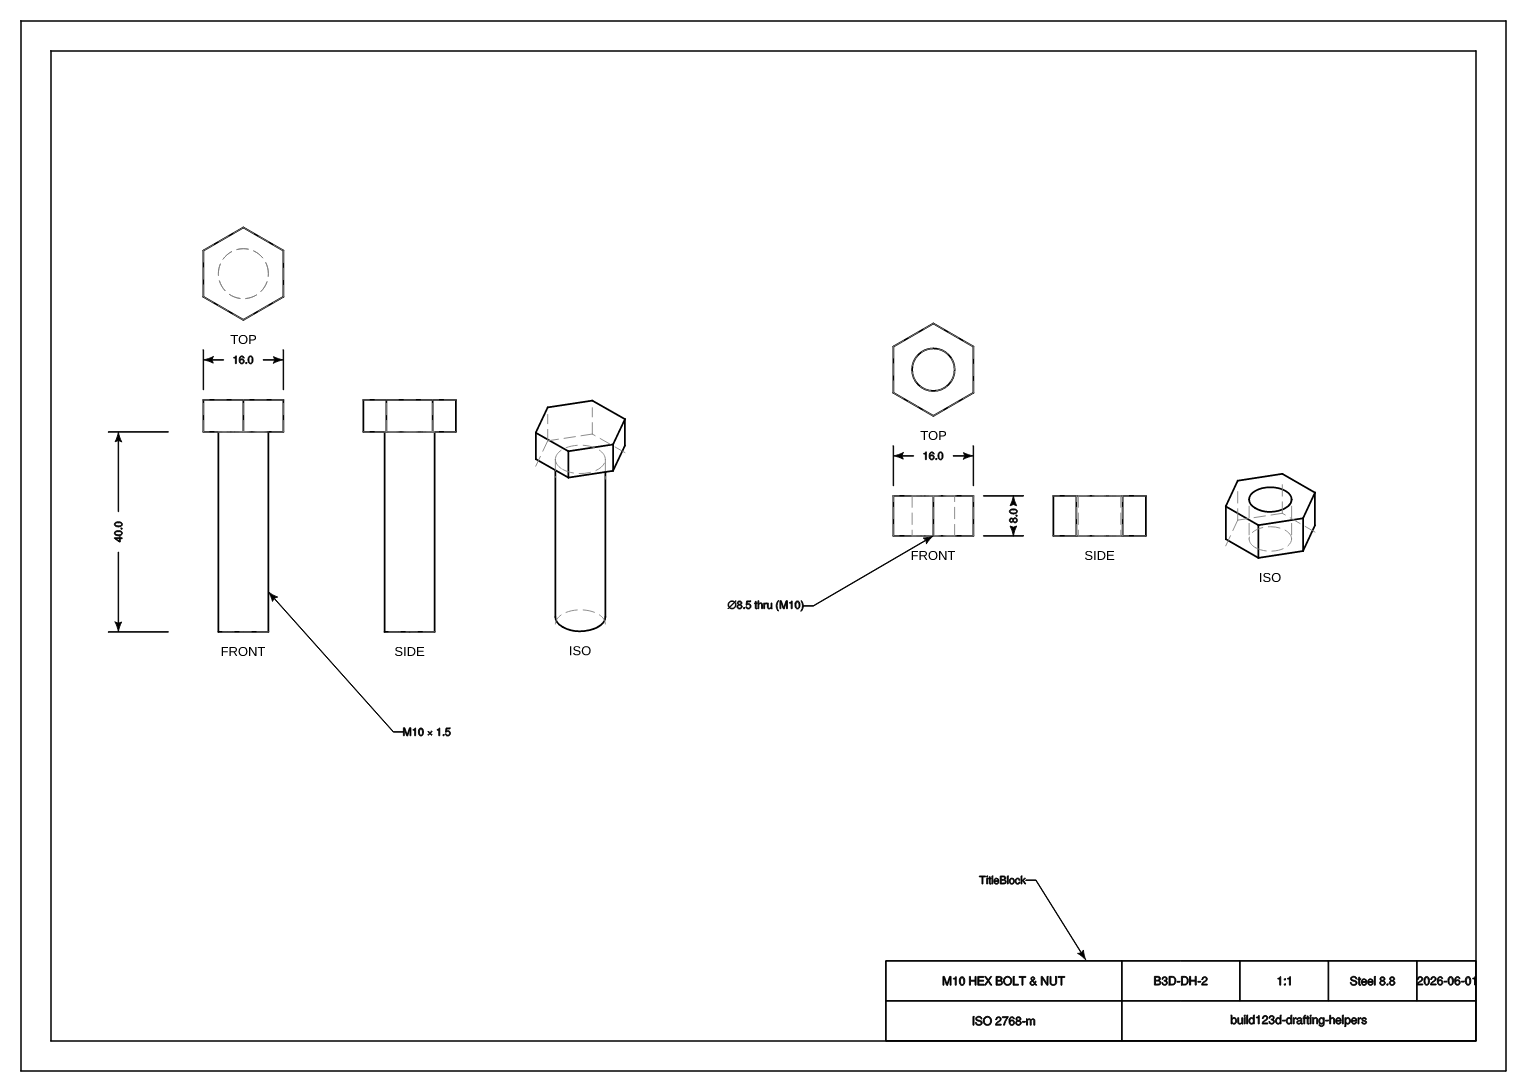
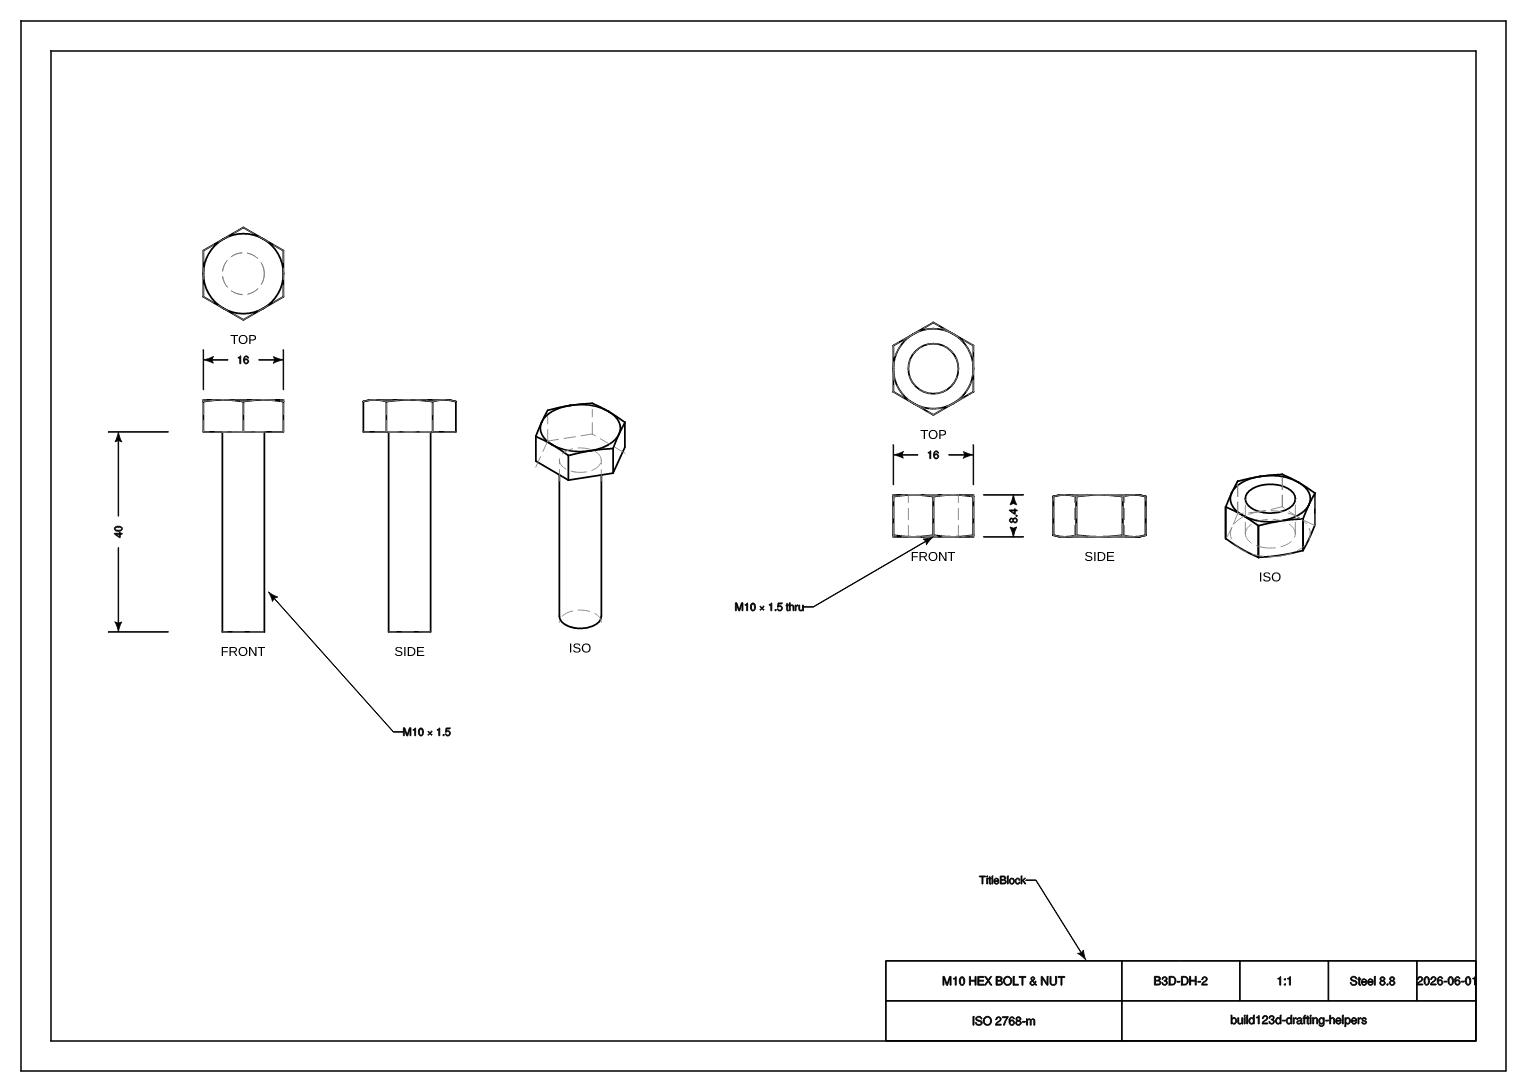
examples: part_drawing draws a real bd_warehouse fastener, fully parametric
Replaces the from-scratch RegularPolygon hex bolt/nut in part_drawing.py with
a bd_warehouse HexHeadScrew + HexNut. Every dimension and callout is now pulled
from the bd_warehouse object (.length, .head_height, .head_diameter ->
across-flats, .thread_diameter/.thread_pitch, .nut_thickness, .nut_diameter),
so changing BOLT_SIZE / BOLT_LENGTH reflows the whole drawing — views, dims,
thread designation and title block — and the self-lint stays clean because the
label values come from the same source as the geometry.

- Parts rotated 30 deg about the axis so a hex flat faces the front camera (the
  front view then shows the across-flats / spanner dimension).
- bd_warehouse added as an example-only dev dependency; the library's runtime
  deps are unchanged (build123d only).
- README worked-drawing section + docs/part_drawing.png updated.

diff --git a/examples/part_drawing.py b/examples/part_drawing.py
@@ -1,36 +1,64 @@
-"""Part drawing — the end-to-end workflow on a real part (M10 hex bolt + nut).
+"""Part drawing — the end-to-end workflow on a real part (hex bolt + nut).
 
 Unlike the specimen sheet (a catalogue of symbols), this shows how you actually
-*make a drawing* with the helpers:
+*make a drawing* with the helpers, on a real library part:
 
-    build the 3D part  ->  project_to_viewport() views (front / top / side / iso)
+    bd_warehouse fastener  ->  project_to_viewport() views (front/top/side/iso)
     ->  dimension with the helpers  ->  lint with find_interferences()  ->  export
 
-It's an A4 frame with a TitleBlock; each part gets front/top/side views
-plus an isometric, dimensioned with Dimension()/Leader()
-(drafts from draft_preset()). The layout is verified collision-free by lint()
-before export.
+The part is a ``bd_warehouse`` ``HexHeadScrew`` + ``HexNut``, and **every
+dimension and callout is pulled from the bd_warehouse object** — change
+``BOLT_SIZE`` / ``BOLT_LENGTH`` below and the views, dimensions, thread
+designation and title block all reflow automatically. It's an A4 frame with a
+TitleBlock; each part gets front/top/side views plus an isometric, dimensioned
+with Dimension()/Leader() (drafts from draft_preset()). The layout is verified
+collision-free by lint() before export.
 
     python examples/part_drawing.py            # writes part_drawing.svg
+
+Requires the dev/example dependency ``bd_warehouse`` (``uv sync --group dev``).
 """
 from __future__ import annotations
 
+import math
 from types import SimpleNamespace
 
+from bd_warehouse.fastener import HexHeadScrew, HexNut
 from build123d import (
-    Align, BuildPart, BuildSketch, Circle, Color, Compound, Edge, ExportSVG,
-    LineType, Location, Mode, Plane, RegularPolygon, Text, extrude,
+    Align, Axis, Color, Compound, Edge, ExportSVG, LineType, Location, Text,
 )
 from build123d_drafting import (
     Dimension, draft_preset, find_interferences, Leader, TitleBlock,
 )
 
+# --- the part: change these two lines and the whole drawing reflows ----------
+BOLT_SIZE = "M10-1.5"      # any bd_warehouse hex size, e.g. "M8-1.25", "M12-1.75"
+BOLT_LENGTH = 40.0
+
+_bolt = HexHeadScrew(size=BOLT_SIZE, length=BOLT_LENGTH, simple=True)
+_nut = HexNut(size=BOLT_SIZE, simple=True)
+
+# Every value below is read from the bd_warehouse parts — no magic numbers.
+_AF = math.sqrt(3) / 2.0                       # across-corners -> across-flats
+BOLT_L = _bolt.length                          # threaded shaft length
+HEAD_H = _bolt.head_height
+THREAD_D = _bolt.thread_diameter
+PITCH = _bolt.thread_pitch
+HEAD_AF = _bolt.head_diameter * _AF            # spanner size (across flats)
+NUT_T = _nut.nut_thickness
+NUT_AF = _nut.nut_diameter * _AF
+THREAD = f"M{THREAD_D:g} × {PITCH:g}"          # e.g. "M10 × 1.5"
+TITLE = f"{BOLT_SIZE.split('-')[0]} HEX BOLT & NUT"
+
+# Rotate 30° about the axis so a hex flat faces the front camera — the front
+# view then shows the across-flats width, i.e. the dimensioned A/F.
+bolt = _bolt.rotate(Axis.Z, 30)
+nut = _nut.rotate(Axis.Z, 30)
+
 DRAFT = draft_preset(font_size=2.2, decimal_precision=1)
-PW, PH, MARGIN = 297.0, 210.0, 6.0          # A4 landscape
-AF, HEAD_H, DIA, LEN = 16.0, 6.4, 10.0, 40.0
-NUT_AF, NUT_T, BORE = 16.0, 8.0, 8.5
+PW, PH, MARGIN = 297.0, 210.0, 6.0             # A4 landscape
 SANS = "Liberation Sans"
-D = 800.0                                    # camera distance
+D = 800.0                                       # camera distance
 
 border, part_v, hidden_v, dims_l, text_l = [], [], [], [], []
 lint_items: list = []
@@ -42,29 +70,6 @@ def _label_box(t, name="text"):
     bb = t.bounding_box()
     return SimpleNamespace(label_bbox=(bb.min.X, bb.min.Y, bb.max.X, bb.max.Y),
                            label=name, segments=[], elbow=None)
-
-
-# --- 3D parts (simplified — ISO 6410 style, no modelled threads) ------------
-def _bolt():
-    with BuildPart() as p:
-        with BuildSketch(Plane.XY.offset(LEN)):
-            RegularPolygon(radius=AF / 2, side_count=6, major_radius=False, rotation=90)
-        extrude(amount=HEAD_H)
-        with BuildSketch():
-            Circle(DIA / 2)
-        extrude(amount=LEN)
-    return p.part
-
-
-def _nut():
-    with BuildPart() as p:
-        with BuildSketch():
-            RegularPolygon(radius=NUT_AF / 2, side_count=6, major_radius=False, rotation=90)
-        extrude(amount=NUT_T)
-        with BuildSketch():
-            Circle(BORE / 2)
-        extrude(amount=NUT_T, mode=Mode.SUBTRACT)
-    return p.part
 
 
 def _project(part, origin, up, look):
@@ -103,8 +108,9 @@ def _leader(tip, elbow, label):
     lint_items.append(ld)
 
 
-def _draw_part(part, cz, gx, gy):
+def _draw_part(part, gx, gy):
     """Third-angle front/top/side + isometric. Returns the placed FRONT bbox."""
+    cz = part.bounding_box().center().Z
     front = _project(part, (0, -D, cz), (0, 0, 1), (0, 0, cz))
     top = _project(part, (0, 0, D), (0, 1, 0), (0, 0, cz))
     side = _project(part, (D, 0, cz), (0, 0, 1), (0, 0, cz))
@@ -138,31 +144,31 @@ border.extend(_rect_edges(PW, PH))
 
 TB_W = 118.0
 tb = TitleBlock(
-    "M10 HEX BOLT & NUT", "B3D-DH-2", scale="1:1", material="Steel 8.8",
+    TITLE, "B3D-DH-2", scale="1:1", material="Steel 8.8",
     general_tolerance="ISO 2768-m", designed_by="build123d-drafting-helpers",
     date="2026-06-01", width=TB_W, draft=draft_preset(font_size=2.4, decimal_precision=1),
 )
 tb_loc = Location((PW / 2 - MARGIN - TB_W, -PH / 2 + MARGIN, 0))
 dims_l.append(tb.moved(tb_loc))
 
-# --- bolt: views + dimensions (front view) ----------------------------------
-fb = _draw_part(_bolt(), LEN / 2, -104.0, 6.0)
+# --- bolt: views + dimensions (front view) — all values from the bd part -----
+fb = _draw_part(bolt, -104.0, 6.0)
 y0, y_head, y_top = fb.min.Y, fb.max.Y - HEAD_H, fb.max.Y
-xL, xR = fb.center().X - AF / 2, fb.center().X + AF / 2
-_dim((xL - DIA / 2, y0, 0), (xL - DIA / 2, y_head, 0), "left", 12, str(LEN))   # thread length
-_dim((xL, y_top, 0), (xR, y_top, 0), "above", 8, str(AF))                      # head A/F
+xL, xR = fb.center().X - HEAD_AF / 2, fb.center().X + HEAD_AF / 2
+_dim((xL - THREAD_D / 2, y0, 0), (xL - THREAD_D / 2, y_head, 0), "left", 12, f"{BOLT_L:g}")  # length
+_dim((xL, y_top, 0), (xR, y_top, 0), "above", 8, f"{HEAD_AF:g}")                             # head A/F
 # thread designation: leader from the shaft down into the clear area below the
 # views (its label must not land over the SIDE view, which the annotation lint
 # can't see — part geometry isn't a label).
-_leader((fb.center().X + DIA / 2, y0 + 8, 0),
-        (fb.center().X + 30, y0 - 20, 0), f"M{int(DIA)} × 1.5")
+_leader((fb.center().X + THREAD_D / 2, y0 + 8, 0),
+        (fb.center().X + 30, y0 - 20, 0), THREAD)
 
 # --- nut: views + dimensions (front view) -----------------------------------
-nb = _draw_part(_nut(), NUT_T / 2, 34.0, 6.0)
-_dim((nb.min.X, nb.max.Y, 0), (nb.max.X, nb.max.Y, 0), "above", 8, str(NUT_AF))   # A/F
-_dim((nb.max.X, nb.min.Y, 0), (nb.max.X, nb.max.Y, 0), "right", 8, str(NUT_T))   # thickness
+nb = _draw_part(nut, 34.0, 6.0)
+_dim((nb.min.X, nb.max.Y, 0), (nb.max.X, nb.max.Y, 0), "above", 8, f"{NUT_AF:g}")   # A/F
+_dim((nb.max.X, nb.min.Y, 0), (nb.max.X, nb.max.Y, 0), "right", 8, f"{NUT_T:g}")    # thickness
 _leader((nb.center().X, nb.min.Y, 0), (nb.center().X - 24, nb.min.Y - 14, 0),
-        f"⌀{BORE} thru (M{int(DIA)})")
+        f"{THREAD} thru")
 
 # the title block is a labelled feature too
 tb_h = tb.bounding_box().size.Y

diff --git a/README.md b/README.md
@@ -318,13 +318,19 @@ is build123d geometry — text included — it also exports to DXF and scales li
 ### A worked drawing — [`examples/part_drawing.py`](examples/part_drawing.py)
 
 Where the specimen sheet is a *catalogue*, this shows the **end-to-end workflow on a real
-part** (an M10 hex bolt + nut): build the 3D part → `project_to_viewport()` views →
-dimension with `Dimension` / `Leader` → **lint with `find_interferences()`** → export.
-An A4 frame, a `TitleBlock`, **front / top / side views plus an isometric** for each
-part (with dashed hidden lines), and the layout is verified collision-free by `lint()` before
-it's written.
+part**: take a [`bd_warehouse`](https://github.com/gumyr/bd_warehouse) `HexHeadScrew` +
+`HexNut` → `project_to_viewport()` views → dimension with `Dimension` / `Leader` →
+**lint with `find_interferences()`** → export. An A4 frame, a `TitleBlock`, **front / top /
+side views plus an isometric** for each part (with dashed hidden lines), and the layout is
+verified collision-free by `lint()` before it's written.
 
-![M10 bolt and nut drawing](docs/part_drawing.png)
+**Every dimension and callout is pulled from the bd_warehouse object** — change
+`BOLT_SIZE` / `BOLT_LENGTH` at the top of the script (e.g. `"M8-1.25"`, `"M12-1.75"`) and the
+views, length / across-flats dimensions, thread designation and title block all reflow
+automatically; the lint stays clean because the label values come from the same source as
+the geometry. (`bd_warehouse` is an example-only dev dependency, not a runtime dependency.)
+
+![hex bolt and nut drawing](docs/part_drawing.png)
 
 ## Development
 

diff --git a/CHANGELOG.md b/CHANGELOG.md
@@ -1,5 +1,17 @@
 # Changelog
 
+## Unreleased
+
+### Examples
+
+- **`examples/part_drawing.py` now draws a real [`bd_warehouse`](https://github.com/gumyr/bd_warehouse)
+  fastener** (`HexHeadScrew` + `HexNut`) instead of geometry built from scratch. Every
+  dimension and callout is pulled from the bd_warehouse object — change `BOLT_SIZE` /
+  `BOLT_LENGTH` and the views, length / across-flats dims, thread designation and title block
+  all reflow (the lint stays clean because label values share the part's source of truth).
+  `bd_warehouse` is an example-only dev dependency; the library's runtime deps are unchanged
+  (build123d only).
+
 ## v0.2.0 — 2026-06-01
 
 ### Changed (breaking)
